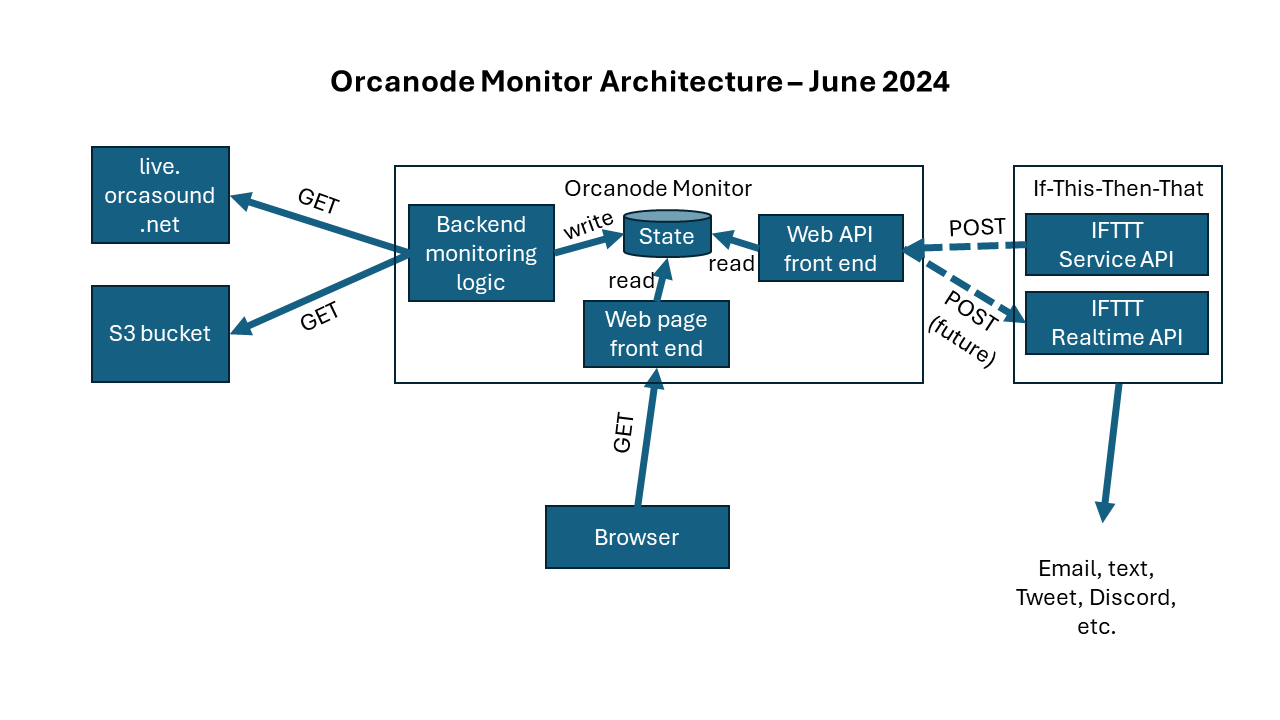
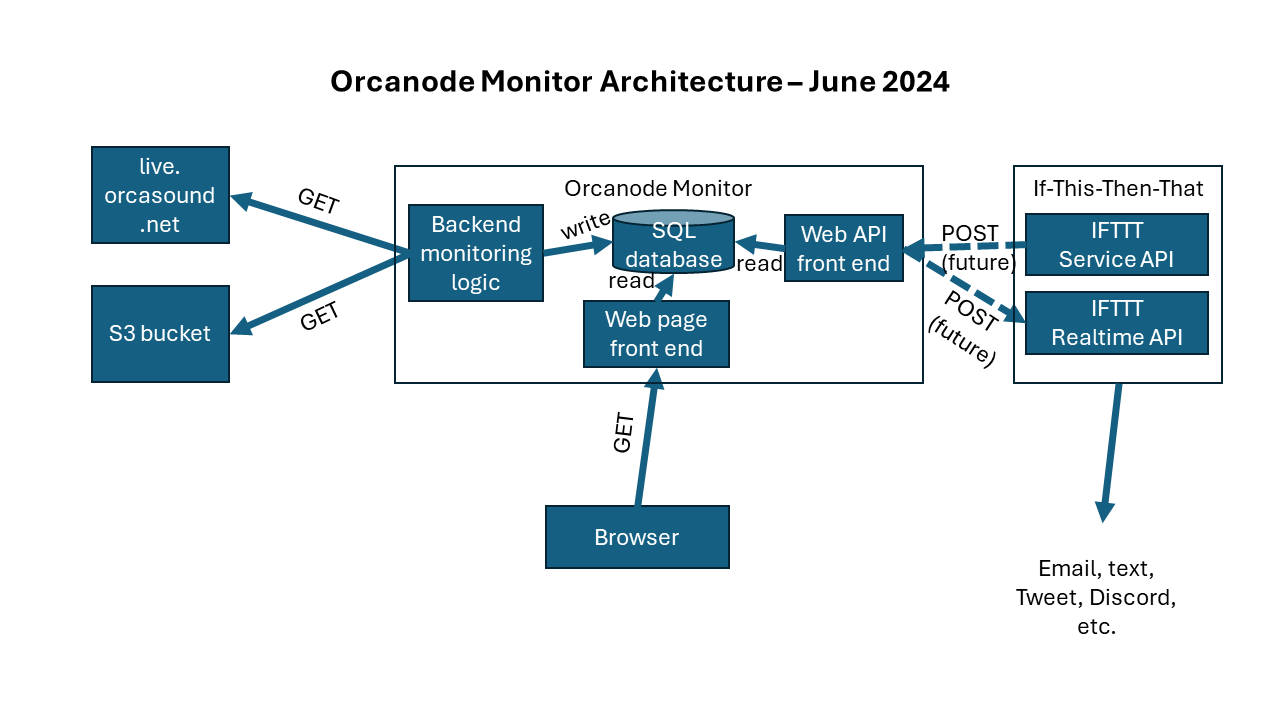
Rename SQL database name (#34)
Also update docs.
Also change github action on push to deploy to staging server rather
than production server.

Changed region(s): [[0.3125, 0.275, 0.6875, 0.4278], [0.7188, 0.3056, 0.7812, 0.3972]]

diff --git a/docs/Design.md b/docs/Design.md
@@ -7,10 +7,18 @@
 The web service will be deployed as an azurewebsites.net service.  Periodically, at a frequency that can be
 configured by an administrator, the service will do the following:
 
-1. Enumerate the orcanodes listed at https://live.orcasound.net/api/json/feeds and update the internal list
-   of nodes, tracking the “node_name” and “bucket”, for each orcanode.
+1. Enumerate the orcanodes listed at
+   [https://apps.dataplicity.com/devices](https://docs.dataplicity.com/reference/devicessearch) and update the
+   internal list of nodes, tracking the "name" and "online" and various other attributes, for each orcanode.
 
 2. For each orcanode found in step 1:
+
+   a. Update the state of the orcanode in stable storage.  Other internal modules can register for notifications
+
+3. Enumerate the orcanodes listed at https://live.orcasound.net/api/json/feeds and update the internal list
+   of nodes, tracking the “node_name” and “bucket”, for each orcanode.
+
+4. For each orcanode found in step 3:
 
    a. Query the latest timestamp by fetching “https://{bucket}.s3.amazonaws.com/{node_name}/latest.txt”
       (e.g., https://streaming-orcasound-net.s3.amazonaws.com/rpi_orcasound_lab/latest.txt for the Orcasound
@@ -26,37 +34,53 @@ configured by an administrator, the service will do the following:
    c. Update the state of the orcanode in stable storage.  Other internal modules can register for notifications
       of changes to this state.
 
-3. Enumerate the orcanodes listed at
-   [https://apps.dataplicity.com/devices](https://docs.dataplicity.com/reference/devicessearch) and update the
-   internal list of nodes, tracking the "name" and "online", for each orcanode.
-
-4. For each orcanode found in step 3:
-
-   a. Update the state of the orcanode in stable storage.  Other internal modules can register for notifications
+   d. Query aifororcas to find the last detection by fetching
+      "https://aifororcasdetections.azurewebsites.net/api/detections?Page=1&SortBy=timestamp&SortOrder=desc&Timeframe=all&Location={name}&RecordsPerPage=1", where "{name}" is the display name of the node. Note: AIforOrcas
+      still uses "Haro Strait" instead of "Orcasound Lab" so this exception will be manually coded until the
+      node name is corrected.
 
 The following state will be stored per orcanode:
 
-  * **name**: The human-readable name from the “name” obtained in step 1.
+  * **DisplayName**: The human-readable name to display on the web page.  This name is derived from the names
+    obtained from Dataplicity and live.orcasound.net.
 
-  * **s3_node_name**: The URI path component from the “node_name” obtained in step 1.
+  * **OrcasoundName**: The human-readable name used by live.orcasound.net.
 
-  * **s3_bucket**: The hostname component from the “bucket” obtained in step 1.
+  * **S3NodeName**: The URI path component from the “node_name” obtained from live.orcasound.net.
 
-  * **slug**: The URI path component from the “slug” obtained in step 1.
+  * **S3Bucket**: The hostname component from the “bucket” obtained from live.orcasound.net.
 
-  * **latest-recorded**: The Unix timestamp value in the latest.txt file obtained in step 2a as recorded on the orcanode.
+  * **OrcasoundSlug**: The URI path component from the “slug” obtained from live.orcasound.net.
 
-  * **latest-uploaded**: The Last-Modified timestamp on the latest.txt file as recorded by Amazon, obtained in step 2a.
+  * **LatestRecordedUtc**: The timestamp recorded in the latest.txt file on S3.
 
-  * **manifest-updated**: The Last-Modified timestamp on the manifest file as recorded by Amazon, obtained in step 2b.
+  * **LatestUploadedUtc**: The Last-Modified timestamp on the latest.txt file as recorded on S3.
 
-  * **dataplicity-name**: The value of the "name" field obtained in step 3.
+  * **ManifestUpdatedUtc**: The Last-Modified timestamp on the manifest file as recorded by S3.
 
-  * **dataplicity-description**: The value of the "description" field obtained in step 3.
+  * **LastCheckedUtc**: The last time the S3 instance was queried, as recorded by Orcanode Monitor.
 
-  * **dataplicity-upgrade-available**: The value of the "upgrade_available" field obtained in step 3.
+  * **DataplicityName**: The value of the "name" field obtained from Dataplicity.
 
-  * **dataplicity-online**: The value of the "online" field obtained in step 3.
+  * **DataplicityDescription**: The value of the "description" field obtained from Dataplicity.
+
+  * **AgentVersion**: The version of the agent software running on the node, as obtained from Dataplicity.
+
+  * **DiskCapacity**: The disk capacity of the node, as obtained from Dataplicity.
+
+  * **DiskUsed**: The amount of disk used on the node, as obtained from Dataplicity.
+
+  * **DataplicityUpgradeAvailable**: The value of the "upgrade_available" field obtained from Dataplicity.
+
+  * **DataplicityOnline**: The value of the "online" field obtained from Dataplicity.
+
+  * **LastOrcaHelloDetectionTimestamp**: The time at which OrcaHello last generated a detection for this node.
+
+  * **LastOrcaHelloDetectionConfidence**: The confidence of the last OrcaHello detection.
+
+  * **LastOrcaHelloDetectionComments**: The comments on the last OrcaHello detection.
+
+  * **LastOrcaHelloDetectionFound**: The value of the "found" field obtained from OrcaHello.
 
 ### Configured parameters
 
@@ -66,8 +90,9 @@ The following state will be stored per orcanode:
 
 ## Web page front end
 
-The proposed web service would expose a web page that would display, for each node, the current state and potentially
-also the recent history of the state including % uptime over some time period.
+The web service exposes a web page that displays, for each node, the current state of the nodes, and a list of
+recent events (i.e., state changes in nodes).  In the future, it could potentially also show the % uptime of each
+node over some time period.
 
 ## If-This-Then-That (IFTTT) Integration
 
